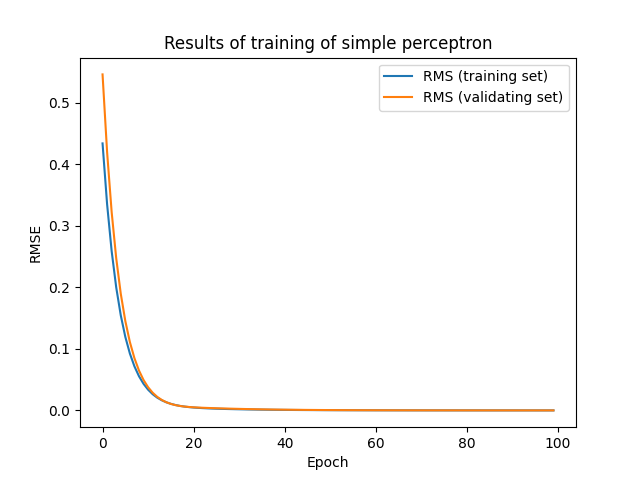
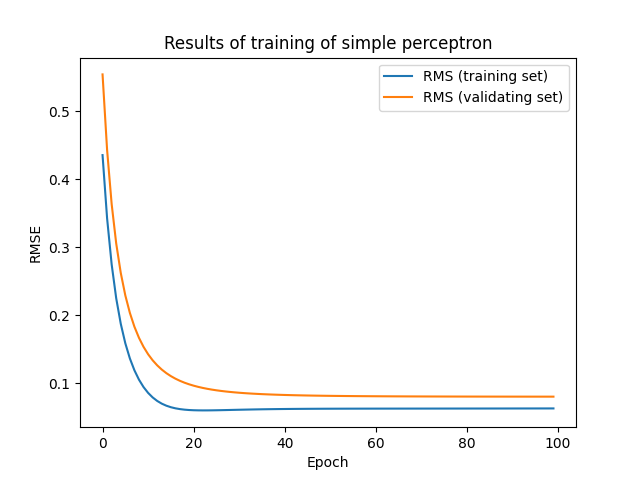
lab06

diff --git a/src/lab06/perceptron.py b/src/lab06/perceptron.py
@@ -153,13 +153,13 @@ class simple_perceptron:
         Returns:
             None
         '''
-
-        self.weights = np.random.random(self.Nin)
         if self.use_bias:
             self.bias = 1
+            self.Nin += 1
         else:
             self.bias = 0
         print("Bias:", self.bias)
+        self.weights = np.random.random(self.Nin)
 
         # Alternative way - without using numpy:
         # self.weights = [random.random() for i in range(self.Nin)]
@@ -303,7 +303,7 @@ class simple_perceptron:
         # Lists for storing RMSE for each epoch
         RMSE_train = []
         RMSE_valid = []
-        alpha = 1
+        alpha = 1.0
 
         # Iterate over epochs
         for epoch in range(self.epochs):
@@ -314,11 +314,13 @@ class simple_perceptron:
             weight_delta_list = [0] * (self.Nin + 1)
             for i in range(len(Xtrain)):
                 # i - index of the input training pattern
+                if self.use_bias:
+                    Xtrain[i] = np.append(Xtrain[i], self.bias)
+
                 sumWeighted = 0
                 for j in range(self.Nin):
                     # j - index of the weight, for the given input pattern
                     sumWeighted += self.weights[j]*Xtrain[i][j]
-                    sumWeighted += self.bias
                 Yout = self.f(sumWeighted)
 
                 # Calculate weights change
@@ -330,15 +332,7 @@ class simple_perceptron:
                     else:
                         self.weights[j] += weight_delta
 
-                # Calculate bias change
-                weight_delta = self.learning_rate * self.fp(sumWeighted) * (Ytrain[i] - Yout) * self.bias
-                if self.use_momentum:
-                    self.bias += weight_delta + alpha * weight_delta_list[-1]
-                    weight_delta_list[-1] = weight_delta
-                else:
-                    self.bias += weight_delta
-
-                print("Bias: ", self.bias)
+                print("Bias weight: ", self.weights[-1])
 
                 # Calculate contribution from the current epoch to the RMS on training set
                 sumRMSE_train += (Yout-Ytrain[i])**2
@@ -351,10 +345,11 @@ class simple_perceptron:
                 # Calculate RMS on validating set
                 sumRMSE_valid = 0
                 for i in range(len(Xvalid)):
+                    if self.use_bias:
+                        Xvalid[i] = np.append(Xvalid[i], self.bias)
                     sumWeighted = 0
                     for j in range(self.Nin):
                         sumWeighted += self.weights[j]*Xvalid[i][j]
-                        sumWeighted += self.bias
                     Yout = self.f(sumWeighted)
                     sumRMSE_valid += (Yout-Yvalid[i])**2
 
@@ -380,12 +375,13 @@ class simple_perceptron:
         Y = []
         # Calculate output from the perceptron
         for i in range(len(Xtest)):
+            if self.use_bias:
+                Xtest[i] = np.append(Xtest[i], self.bias)
             # i - index of the input pattern
             sumWeighted = 0
             for j in range(self.Nin):
                 # j - index of the weight, for the given input pattern
                 sumWeighted += self.weights[j]*Xtest[i][j]
-                sumWeighted += self.bias
             Y.append(self.f(sumWeighted))
 
         return Y
@@ -410,6 +406,8 @@ class simple_perceptron:
         plt.title('Results of training of simple perceptron')
         plt.xlabel('Epoch')
         plt.ylabel('RMSE')
+        ax = plt.gca()
+        ax.set_ylim([0, 0.5])
         plt.savefig(filename)
         if show:
             plt.show()
